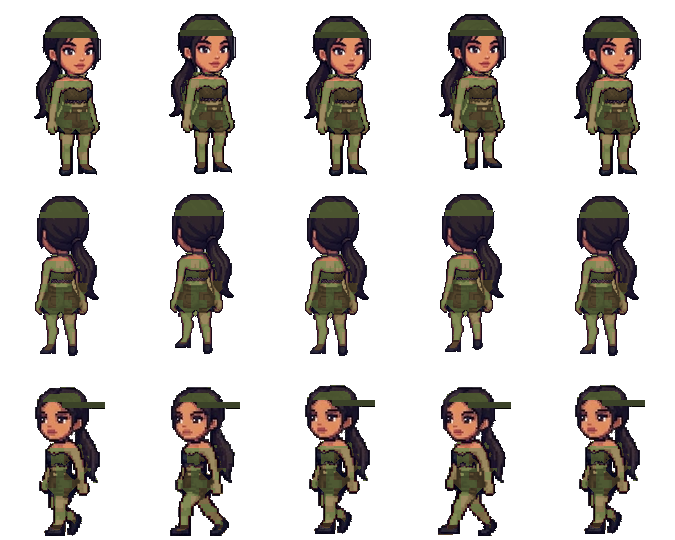
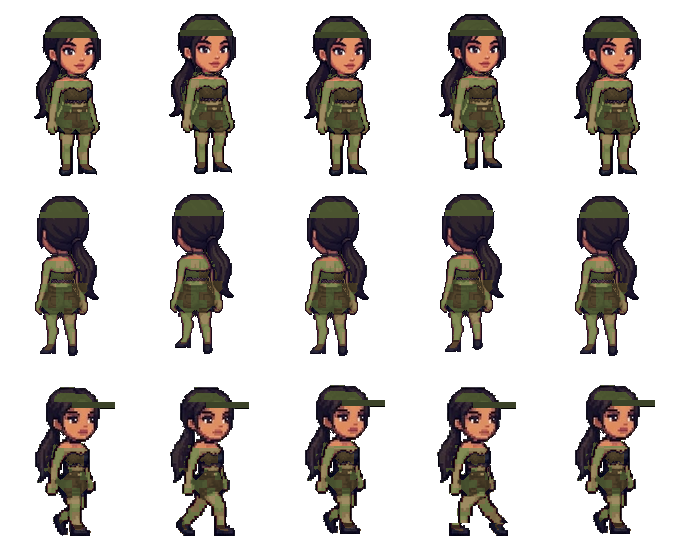
Fix Vanessa's walk: her legs take turns from the side
- From the side, every walk frame on her sheet has the same leg in front, so
  she limped. The second stride now has her legs swapped (mirrored about her
  hips, the shoes turned back round): near leg forward, passing, far leg
  forward, passing
- The last specks of the white outline from her portraits (beside her head,
  between her hair and neck) are painted over
- Her outfit sheets are remade from the fixed figure (they still had the old
  side view, facing the wrong way), and her dodge-roll too

Claude-Session: https://claude.ai/code/session_01261g9pWPsbN9xBeX91TkLT

diff --git a/README.md b/README.md
@@ -258,7 +258,8 @@ to lose and only take the damage. The numbers are under `KISS_` and
 
 Her walk sheet (`assets/walk/walk-vanessa.png`) is cut from her two character
 sheets: facing you and from behind are her portraits (a lower leg lifted in turn
-to walk), and from the side is the walk cycle on her sheet, mirrored. Her card
+to walk), and from the side are the strides from her sheet, the second with her
+legs swapped (the shoes turned back round) so they take turns. Her card
 art is `assets/vanessa.png`.
 
 ### Daniil
